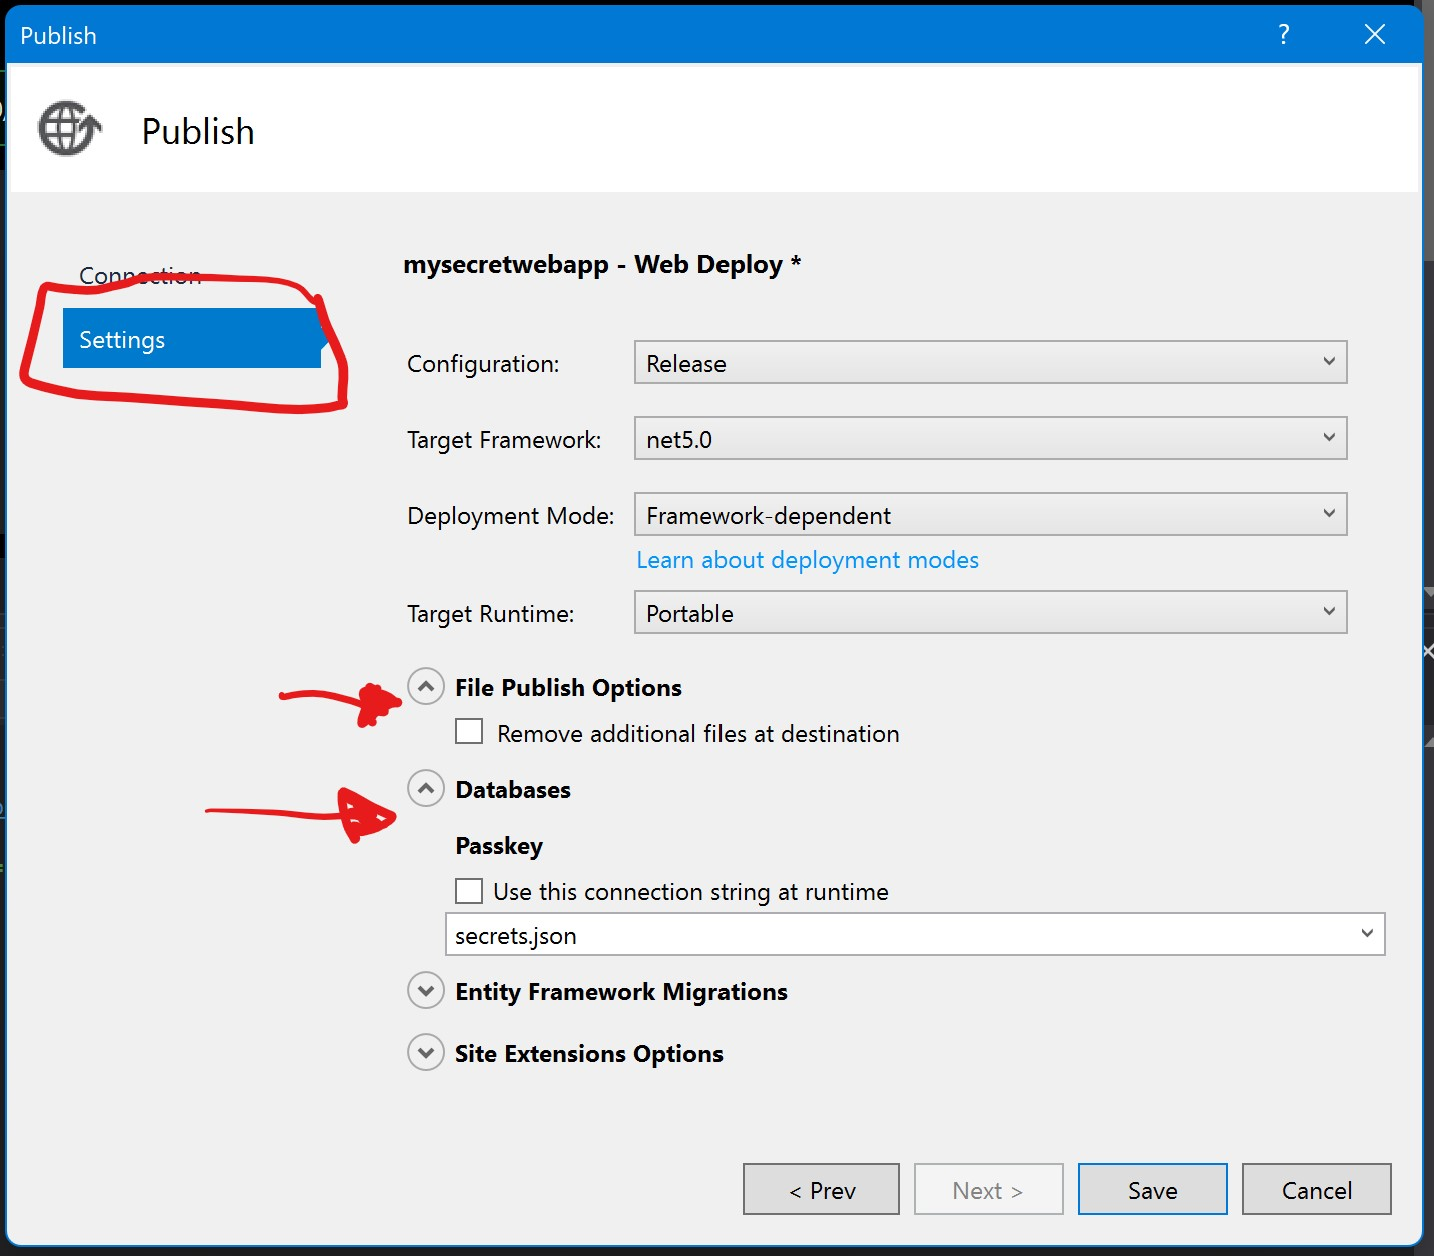
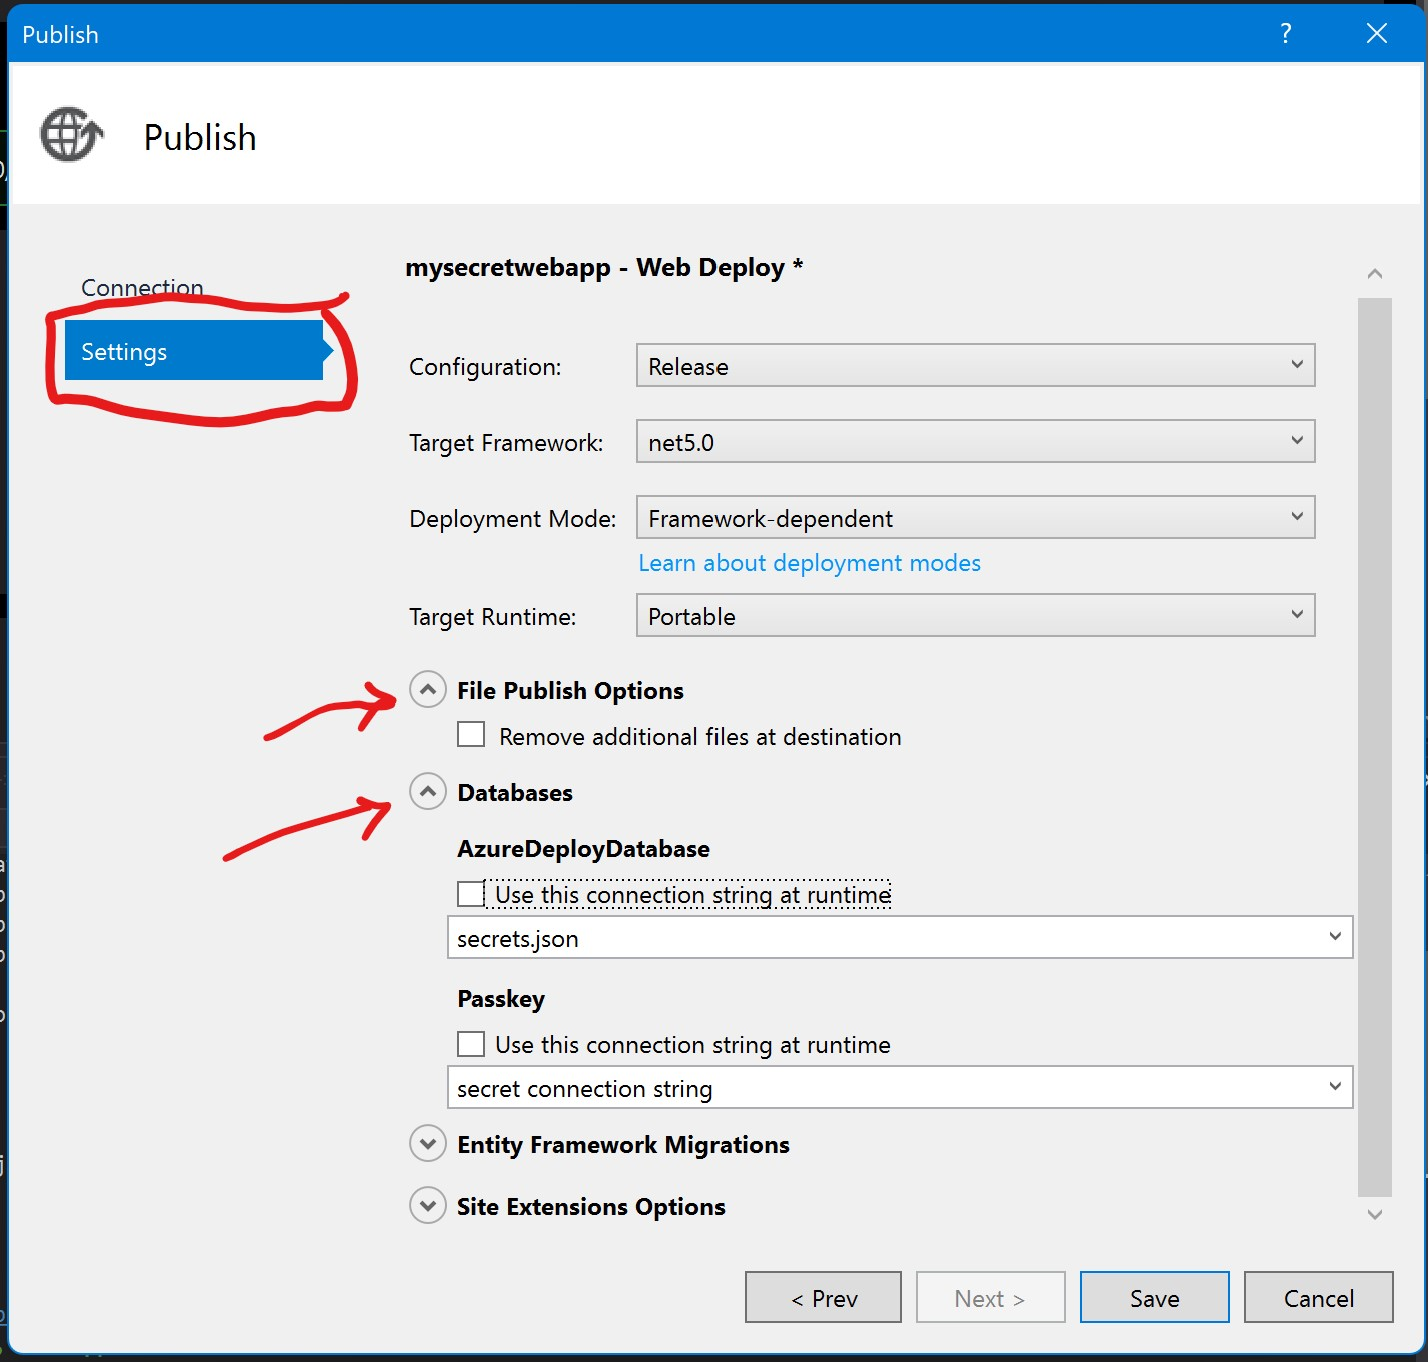
EZ deploy finished.

Changed region(s): [[0.0, 0.0, 1.0, 1.0], [0.2773, 0.1863, 0.5546, 0.2174]]

diff --git a/code/cloud/easy-deploy.md b/code/cloud/easy-deploy.md
@@ -4,7 +4,7 @@ So you have created your ASP.NET Core app and you want to deploy it somewhere. Y
 If you are going to be deploying a production grade application, you should really use CI/CD (Continuous Integration/Continuous Delivery), however, if you are just experimenting and needing to deploy very quickly, you can do so directly from Visual Studio if you have a subscription to Azure.
 
 ### Signup for Azure Account
-Make sure you have signed up for Azure account. Head over to https://azure.microsoft.com and signup for a free account trial.
+Make sure you have signed up for an Azure account. Head over to https://azure.microsoft.com and signup for a free account trial.
 
 ![azure free signup](images/azure-ezdeploy/1-azure-free-signup.jpg#screenshot)
 
@@ -52,7 +52,7 @@ I will assume that we need to create a new resource group for the purpose of thi
 
 In the new resource group dialog, give it a name. This needs only be unique within your subscription and is not global like the app service name, so you won't be competing with others for a cool name here. I named mine "SecretSampleGroup".
 
-![](images/azure-ezdeploy/7-new-resource-group.jpg)
+![Create new resource group](images/azure-ezdeploy/7-new-resource-group.jpg)
 
 Next, click the "New..." next to the Hosting Plan field. This will let us choose a plan for hosting and a data center location. It ranges anywhere from free to rather large computing resources (and can get expensive. Definitely for those who need such power). 
 
@@ -62,39 +62,90 @@ Next select a location. I chose West US, but you can choose any data center loca
 
 Finally choose the size. I chose "Free" because I don't need performance and scalability for this sample, test application.
 
-![](images/azure-ezdeploy/8-new-hosting-plan.jpg)
+![create new hosting plan](images/azure-ezdeploy/8-new-hosting-plan.jpg)
 
 Once this dialog is completed as in the screenshot below, click the next button to continue on.
 
-![](images\azure-ezdeploy\9-publish-new-webapp.jpg)
+![publish new web app dialog completed](images\azure-ezdeploy\9-publish-new-webapp.jpg)
 
 You will see a new "Public" page in your Visual Studio project. This is the page you will see when you publish from now on. 
 
-![](images\azure-ezdeploy\10-publish-dialog.jpg)
+![publish page in visual studio](images\azure-ezdeploy\10-publish-dialog.jpg)
 
 This is saved in your solution as an XML file:
-![](images\azure-ezdeploy\11-webdeploy-xml.jpg)
+![pubxml file for web deploy settings](images\azure-ezdeploy\11-webdeploy-xml.jpg)
 
 Back to the new publish page, when we are ready to deploy, simply click the "Publish" button on this page and your app will begin to deploy.
 
-![](images\azure-ezdeploy\10-publish-dialog.jpg)
+![publish page in visual studio](images\azure-ezdeploy\10-publish-dialog.jpg)
 
 On the first attempt, it will check to make sure that the deployment will be successful and is looking for things like .net 5.0 version support among other things.
 
-![](images\azure-ezdeploy\12-publishing-checks.jpg)
+![publishing checks](images\azure-ezdeploy\12-publishing-checks.jpg)
 
 After the checks complete, it will begin deployment (assuming the checks were successful). On success you should see a screen like this:
 
-![](images\azure-ezdeploy\13-publish-suceeded.jpg)
+![publish suceeded screen](images\azure-ezdeploy\13-publish-suceeded.jpg)
 
 The publish step will even launch your default browser and load the page so you can test it.
 
-![](images\azure-ezdeploy\14-app-running.jpg)
+![running app in microsoft edge](images\azure-ezdeploy\14-app-running.jpg)
+
 
 ### Editing publish settings
+You may want to adjust some of the settings later. To do this, click the "Show all settings" link as circled in the image below:
 
-![](images\azure-ezdeploy\15-show-all-settings.jpg)
+![publish page in visual studio with all settings link circled](images\azure-ezdeploy\15-show-all-settings.jpg)
 
-![](images\azure-ezdeploy\16-connection.jpg)
+This will load a new dialog box with two tab sections "Connection" and "Settings".
 
-![](images/azure-ezdeploy/17-settings.jpg)
+![connections tab of edit settings dialog](images\azure-ezdeploy\16-connection.jpg)
+ 
+ In the "Connection" tab, you will see the publish method, server, site name, user name, password and the destination URL. All of this will get checked into source control EXCEPT the saved password which is only on your local machine. Keep this in mind if you are working with another person or on another machine.
+
+ ![settings tab of edit settings dialog](images/azure-ezdeploy/17-settings.jpg)
+
+ The settings page include configuration, target framework, deployment mode, target runtime. Usually, I leave these alone as the defaults are fine in most cases.
+
+ Under File Publish Options, there is a checkbox to "Remove additional files at destination". This can sometimes be an important setting. If you made a change that needs to remove a file, this check box will be necessary to keep your project and the publish site in sync.
+
+ Additionally, you can specify a connection string for databases from your secrets json, etc. To see how this works, I have added a couple of values to my secrets.json file:
+
+ ```json
+ {
+  "Passkey": "secrets.json",
+  "ConnectionStrings": {
+    "AzureDeployDatabase": "secret connection string"
+  }
+}
+```
+
+In the publish dialog, under Database you will see that the dialog discovered two keys: 
+* PassKey
+* AzureDeployDatabase (under ConnectionStrings)
+
+![checkbox for AzureDeployDatabase key](images/azure-ezdeploy/18-connection-string.jpg)
+
+If you place a checkbox next to "Use this connection string at runtime" and choose "secret connection string", this value will be deployed with your application although it isn't checked into source control.
+
+This is a nice way to keep your secrets secret, but still deployed.
+
+Let's see what happens when we deploy this.
+
+![output window for publish](images/azure-ezdeploy/19-publish-output.jpg)
+
+If you look in the output window for the build/publish, you will se that it creates or updates an `appsettings.production.json` file even though one doesn't exist in our solution explorer. This file is dynamically created and published to azure.
+
+![appsettings in kudu console](images/azure-ezdeploy/20-appsettings-prod.jpg)
+
+This screenshot is from the Azure portal in the Kudu tools which allow you to explore the file structure of your deployed app in Azure. Here we see that the new appsettings.production.json file exists on the server!
+
+![appsettings prod content](images/azure-ezdeploy/21-appsetting-contents.jpg)
+
+In the deployemnt, you will see our ConnectionStrings key with the AzureDeployDatabase specified.
+
+### Summary
+In this post, we have examined the power of the **"Publish"** button in Visual Studio and how easy it is to deploy an application directly to Azure. This is great for quickly deploying sample applications or test apps, however, if you are deploying a production class application, you should really setup CI/CD (Continuous Integration/build and Continuous Deployment). 
+
+In a future post, we will examing other ways to  configure secrets for Azure deployed applications.
+
